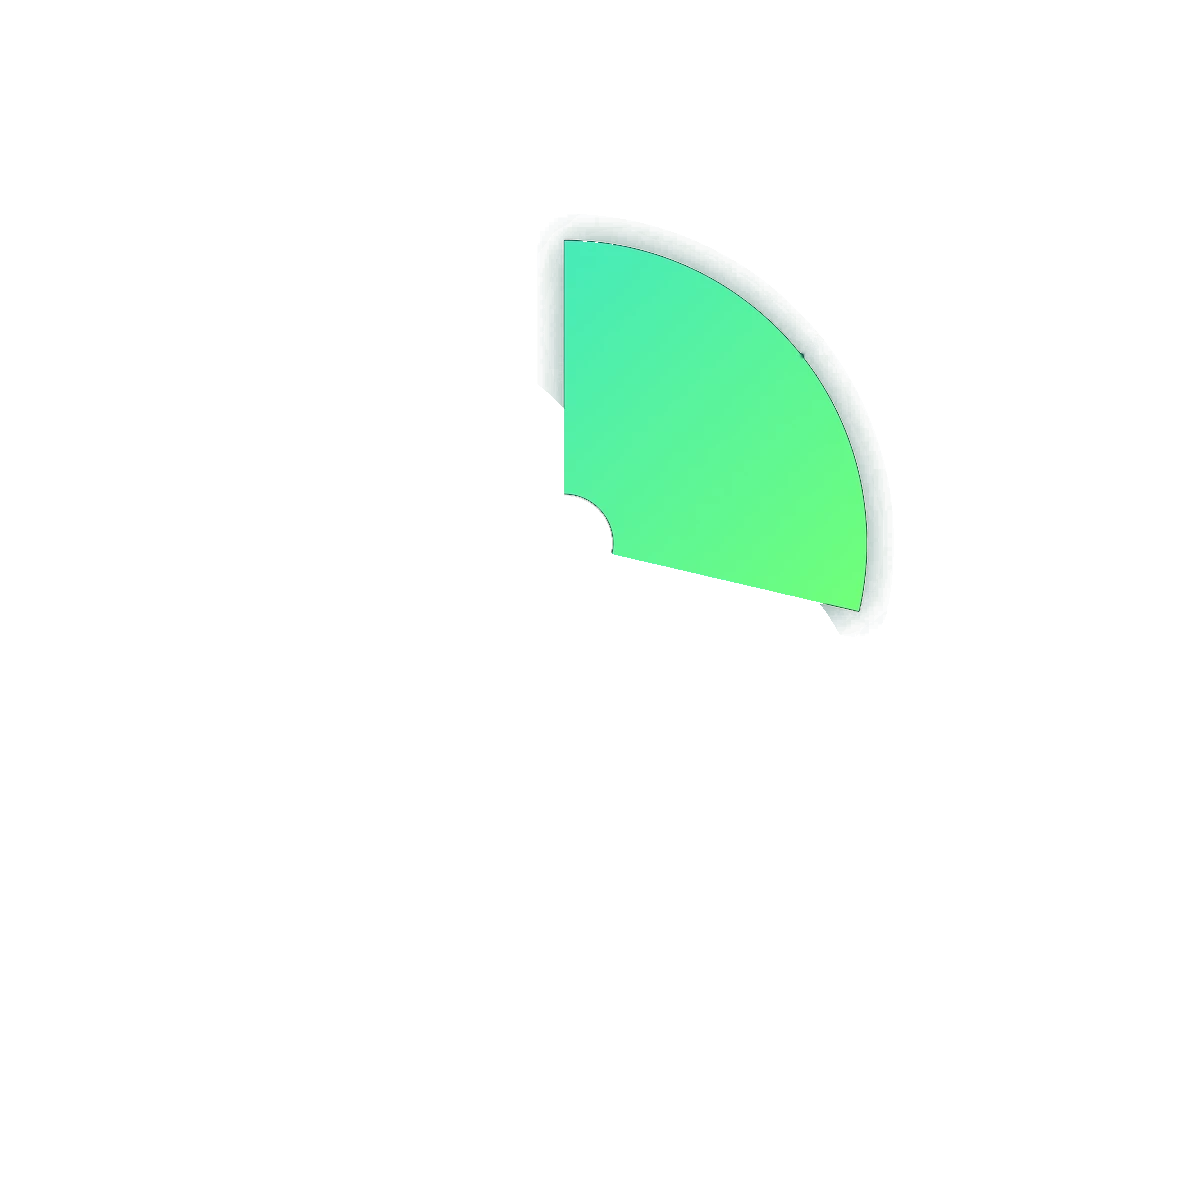
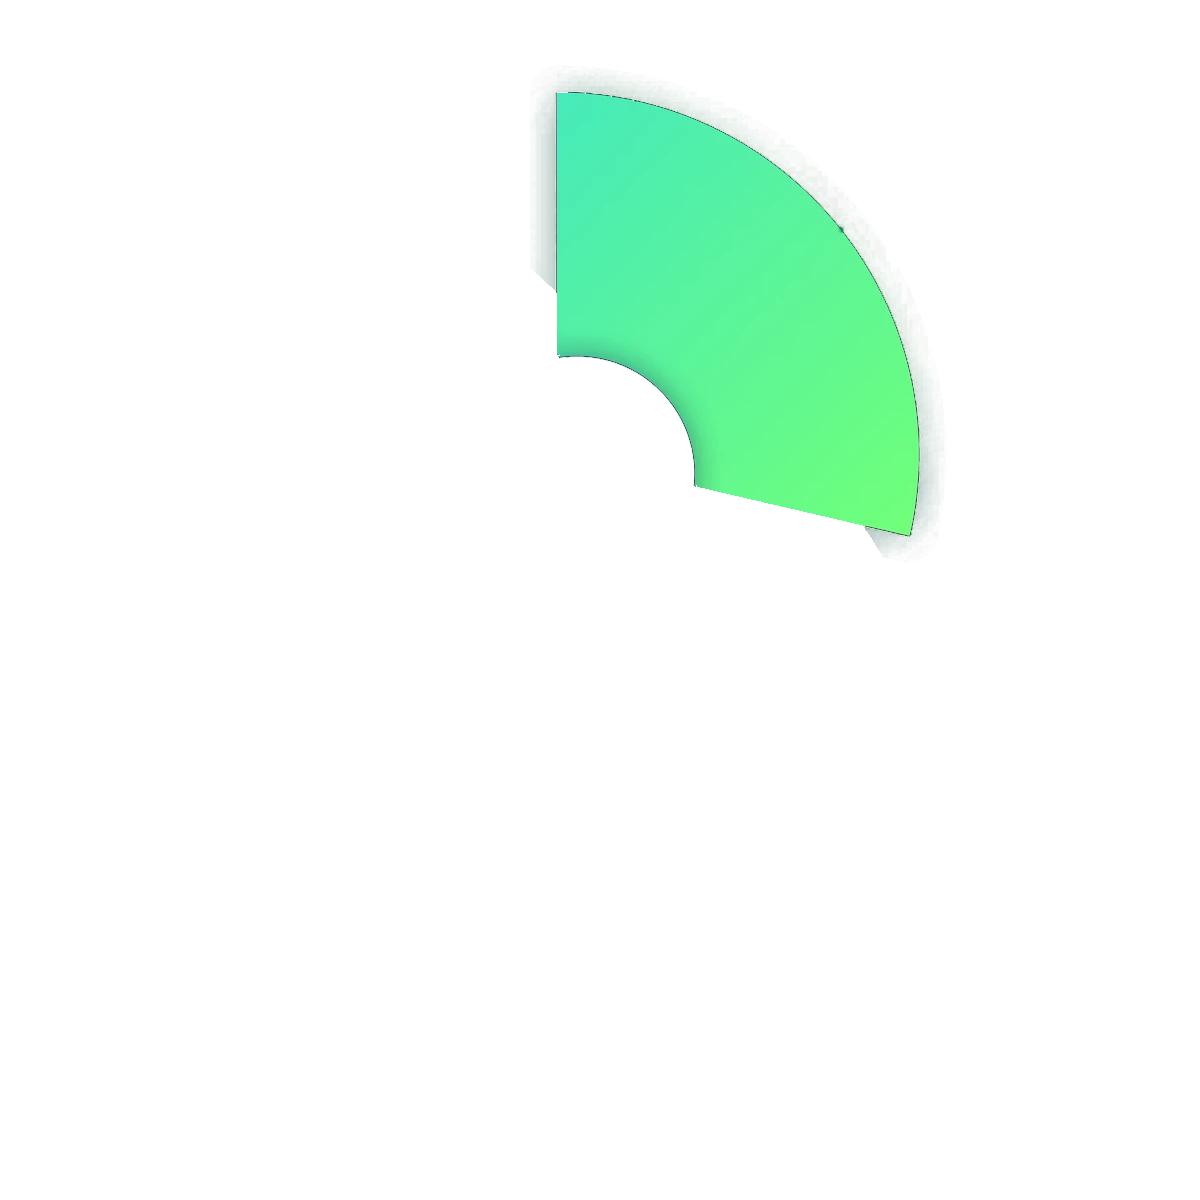
Merchant Portal chart: back to Ester's 10,556 version, animated cleanly

Changed region(s): [[0.4317, 0.0617, 0.8017, 0.5242]]

diff --git a/index.html b/index.html
@@ -23,7 +23,7 @@
   <link rel="preconnect" href="https://fonts.gstatic.com" crossorigin>
   <link href="https://fonts.googleapis.com/css2?family=Inter:wght@200;300;400;500;600&display=swap" rel="stylesheet">
   <link rel="stylesheet" href="fonts-mattone.css?v=1">
-  <link rel="stylesheet" href="styles.css?v=123c">
+  <link rel="stylesheet" href="styles.css?v=123d">
   <script>
     document.documentElement.classList.add('js');
     // Preview of ground colours: the page opens in white; the corner circle steps through the others.
@@ -102,7 +102,7 @@
       </a>
 
       <a class="card dark overlay clear" href="#merchant-portal" data-reveal>
-        <div class="shot bleed"><div class="pie" role="img" aria-label="Payins chart: 10,746.64 dollars split by payment method, SPEI 48%, Cards 24%, OXXO 16%, BBVA 9% and others 3%"><img src="img/pie/bg.jpg?v=5" width="1200" height="1200" alt="" loading="lazy"><img class="w" src="img/pie/w0.webp?v=5" width="1200" height="1200" alt="" loading="lazy"><img class="w" src="img/pie/w1.webp?v=5" width="1200" height="1200" alt="" loading="lazy"><img class="w" src="img/pie/w2.webp?v=5" width="1200" height="1200" alt="" loading="lazy"><img class="w" src="img/pie/w3.webp?v=5" width="1200" height="1200" alt="" loading="lazy"><img class="w" src="img/pie/w4.webp?v=5" width="1200" height="1200" alt="" loading="lazy"><img class="pie-centre" src="img/pie/centre.webp?v=5" width="1200" height="1200" alt="" loading="lazy"><img class="pie-lines" src="img/pie/lines.webp?v=5" width="1200" height="1200" alt="" loading="lazy"></div></div>
+        <div class="shot bleed"><div class="pie" role="img" aria-label="Payins chart: 10,556 dollars split by payment method, SPEI 29%, OXXO 27%, Cards 17%, BBVA 14% and others 13%"><img src="img/pie/bg.jpg?v=6" width="1200" height="1200" alt="" loading="lazy"><img class="w" src="img/pie/w0.webp?v=6" width="1200" height="1200" alt="" loading="lazy"><img class="w" src="img/pie/w1.webp?v=6" width="1200" height="1200" alt="" loading="lazy"><img class="w" src="img/pie/w2.webp?v=6" width="1200" height="1200" alt="" loading="lazy"><img class="w" src="img/pie/w3.webp?v=6" width="1200" height="1200" alt="" loading="lazy"><img class="w" src="img/pie/w4.webp?v=6" width="1200" height="1200" alt="" loading="lazy"><img class="pie-centre" src="img/pie/centre.webp?v=6" width="1200" height="1200" alt="" loading="lazy"><img class="pie-lines" src="img/pie/lines.webp?v=6" width="1200" height="1200" alt="" loading="lazy"></div></div>
         <div class="card-text">
           <h3>Merchant Portal</h3>
           <p class="card-head">Making complex financial operations easier to navigate</p>

diff --git a/styles.css b/styles.css
@@ -218,14 +218,14 @@ main > section:first-child { margin-top: 0; }
 .pie { position: absolute; inset: 0; transition: transform 900ms var(--ease-expo); }
 .card:hover .shot > .pie { transform: scale(1.03); }
 .card.overlay .shot .pie img { position: absolute; inset: 0; }
-.pie .w { transform-origin: 47% 45.24%; }
+.pie .w { transform-origin: 46.41% 38.34%; }
 .pie.armed .w { opacity: 0; }
 .pie.play .w { animation: wedge-in 1300ms cubic-bezier(0.16, 1, 0.3, 1) both; }
 .pie.play .w:nth-child(3) { animation-delay: 110ms; }
 .pie.play .w:nth-child(4) { animation-delay: 220ms; }
 .pie.play .w:nth-child(5) { animation-delay: 330ms; }
 .pie.play .w:nth-child(6) { animation-delay: 440ms; }
-.pie .pie-centre { transform-origin: 47% 45.24%; }
+.pie .pie-centre { transform-origin: 48.07% 39.45%; }
 .pie.play .pie-centre { animation: centre-in 900ms cubic-bezier(0.16, 1, 0.3, 1) both; }
 .pie.armed .pie-lines { opacity: 0; }
 .pie.play .pie-lines { animation: lines-in 600ms ease-out 1250ms both; }  /* leader lines once the wedges have landed */
